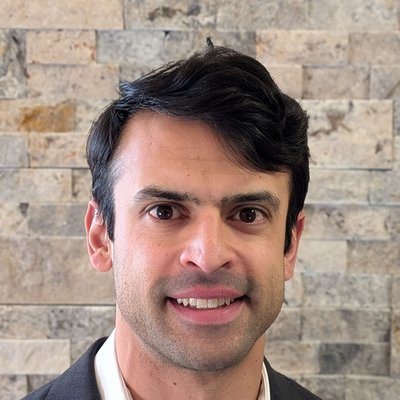
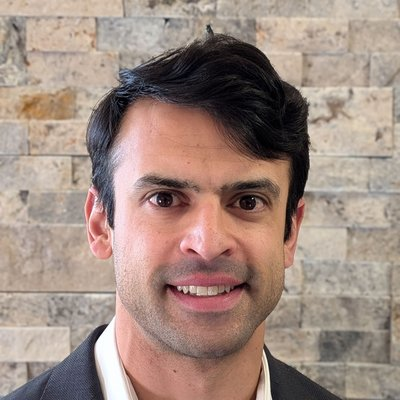
Recrop Josh's headshot: one third of the space above, two thirds below

diff --git a/lab.html b/lab.html
@@ -37,7 +37,7 @@
       <h2>Current members</h2>
       <ul class="people">
         <li class="person">
-          <img src="images/josh.jpg?v=2" alt="Josh Prasad">
+          <img src="images/josh.jpg?v=3" alt="Josh Prasad">
           <div>
             <h3><a href="https://www.linkedin.com/in/josh-prasad-phd/">Josh Prasad, Ph.D.</a> <span class="pron">he/him</span></h3>
             <p>Assistant Professor in the Department of Psychology at CSU. Research interests include assessment fairness, authenticity at work, machine learning in personnel decisions, and promoting STEM careers among historically underrepresented populations.</p>
